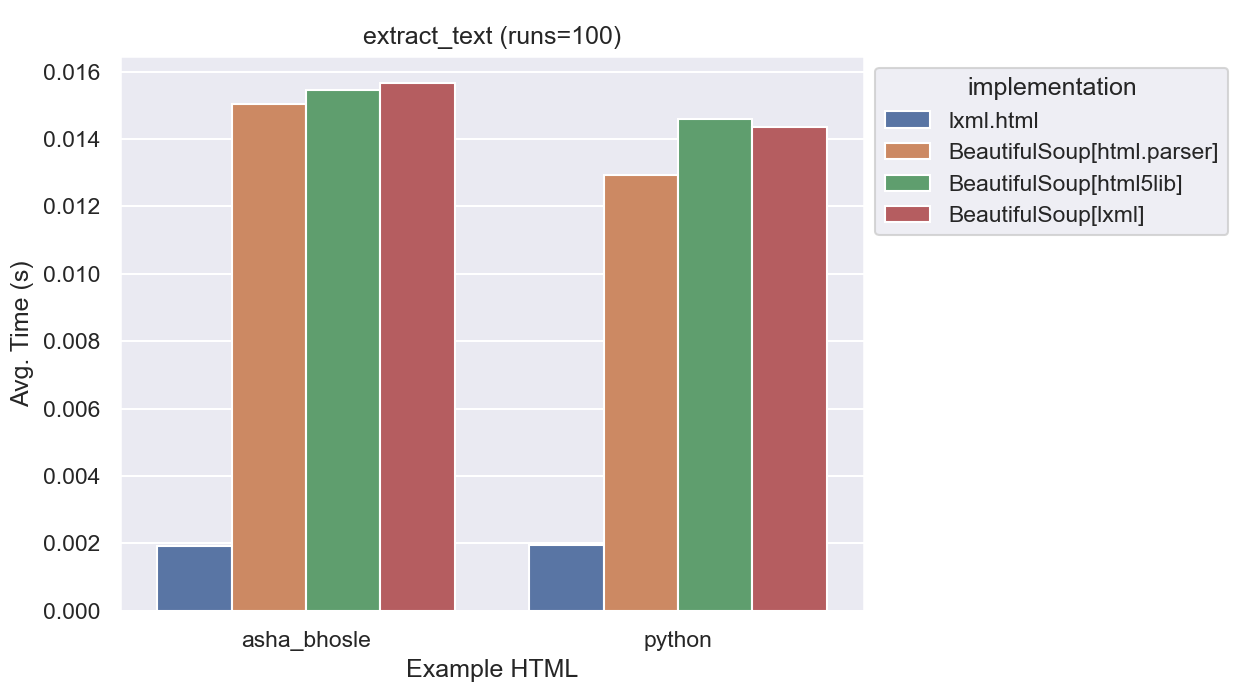
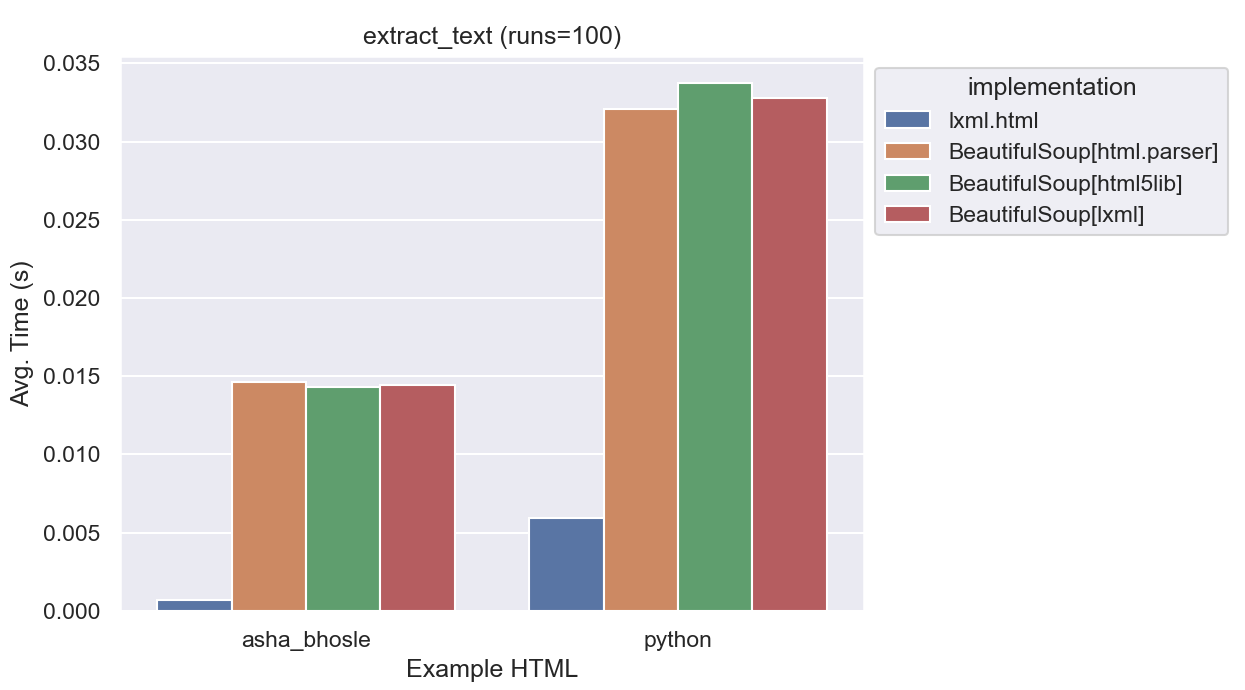
update extract_text to be more realistic

diff --git a/scraping_experiments/parsing/implementations.py b/scraping_experiments/parsing/implementations.py
@@ -1,4 +1,4 @@
-from abc import ABC
+from abc import ABC, abstractmethod
 import pathlib
 import lxml.html
 from bs4 import BeautifulSoup, Tag
@@ -14,11 +14,31 @@ class Base(ABC):
                 pathlib.Path("testdata") / f"{example}.html"
             ).read_text()
 
+    @abstractmethod
+    def parse_dom(self, html):
+        pass
+
+    @abstractmethod
+    def find_tags(self, tree, tag):
+        pass
+
+    @abstractmethod
+    def all_nodes(self, tree):
+        pass
+
+    @abstractmethod
+    def all_text(self, tree):
+        pass
+
     def pre_parse(self):
         # Pre-parse the HTML to allow us to benchmark individual selections
         self.root = {}
         for name, html in self.html.items():
             self.root[name] = self.load_dom(name)
+
+    def extract_text(self, example):
+        nodes = self.find_tags(self.root[example], "ul")
+        return "".join(self.all_text(node) for node in nodes)
 
 
 class Lxml(Base):
@@ -57,9 +77,6 @@ class Lxml(Base):
         count(self.root[example])
         return elements
         # return list(self.root[example].iter())
-
-    def extract_text(self, example):
-        return self.root[example].text_content()
 
     def __repr__(self):
         return "lxml.html"
@@ -105,9 +122,6 @@ class BSoup(Base):
         count(self.root[example])
         return elements
         # return list(self.root[example].recursiveChildGenerator())
-
-    def extract_text(self, example):
-        return self.root[example].get_text()
 
     def __repr__(self):
         return f"BeautifulSoup[{self.parser}]"

diff --git a/scraping_experiments/parsing/benchmarks.py b/scraping_experiments/parsing/benchmarks.py
@@ -5,15 +5,16 @@ from matplotlib import pyplot as plt
 import timeit
 from .implementations import BSoup, Lxml
 
+methods = [
+    ("load_dom", 5),
+    ("links_natural", 100),
+    ("links_css", 100),
+    ("count_elements", 100),
+    ("extract_text", 100),
+]
+
 
 def run_all_benchmarks():
-    methods = [
-        ("load_dom", 5),
-        ("links_natural", 100),
-        ("links_css", 100),
-        ("count_elements", 100),
-        ("extract_text", 100),
-    ]
     implementations = [Lxml(), BSoup("html.parser"), BSoup("html5lib"), BSoup("lxml")]
     runs = []
     for impl in implementations:
@@ -74,11 +75,5 @@ def show_results(df, method, examples=None):
 
 bdf = run_all_benchmarks()
 
-for func in [
-    "load_dom",
-    "links_natural",
-    "links_css",
-    "count_elements",
-    "extract_text",
-]:
+for func, _ in methods:
     show_results(bdf, func, ["asha_bhosle", "python"])

diff --git a/speed-comparison.md b/speed-comparison.md
@@ -219,24 +219,30 @@ These methods are typically used to extract all of the text from a block of HTML
 
 For benchmarking purposes I figured I'd just extract the text from the root element.
 
+lxml.html: 
+
 ```python
-text = root.text_content()
+uls = root.xpath('//ul')
+text = "".join([ul.text_content() for ul in uls])
 ```
 
 BeautifulSoup:
 
 ```python
-text = root.get_text()
+uls = root.find_all('ul')
+text = "".join([ul.get_text() for ul in uls])
 ```
 
 The lengths here differed as well:
 
-| example       |   BeautifulSoup[html.parser]  |   BeautifulSoup[html5lib] |   BeautifulSoup[lxml] |   lxml.html |
-|:--------------|-----------------------------: |--------------------------:|----------------------:|-------------:|
-| *asha_bhosle* |                       453,835 |                   464,164 |               453,834 |      464,165 |
-| *python*      |                       453,848 |                   576,337 |               453,846 |      576,340 |
+| example     |   BeautifulSoup[html.parser] |   BeautifulSoup[html5lib] |   BeautifulSoup[lxml] |   lxml.html |
+|:------------|-----------------------------:|--------------------------:|----------------------:|------------:|
+| asha_bhosle |                         2270 |                      2282 |                  2270 |        2282 |
+| python      |                       565339 |                    740069 |                565339 |      740069 |
 
-For the `python` example it is notable that html5lib and lxml.html are finding about 100,000 more characters than the other parsers.  This is likely due to the fact that they are more lenient in their parsing.  We'll look at this in more detail in the next section.
+For the `python` example it is notable that html5lib and lxml.html are finding about 200,000 more characters than the other parsers.
+It's also quite strange that BeautifulSoup's lxml parser is finding the same number of characters as the html.parser, and not `lxml.html`.
+It'll be worth revisiting this when we get to evaluating leniency.
 
 As for how the speed compared, lxml.html once again was the fastest:
 
